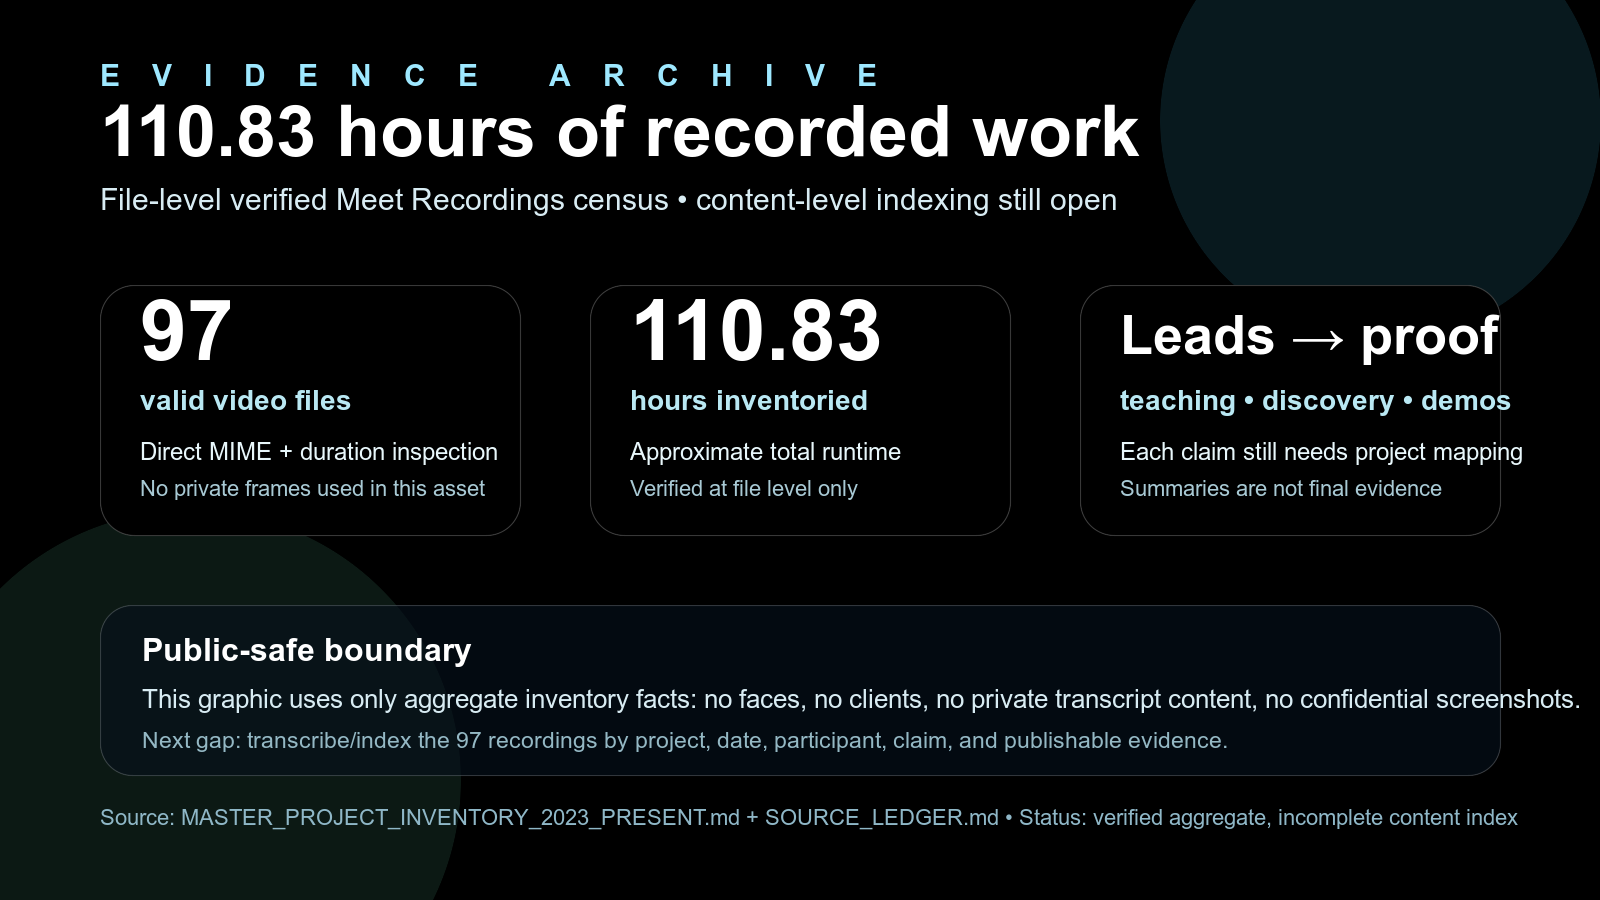
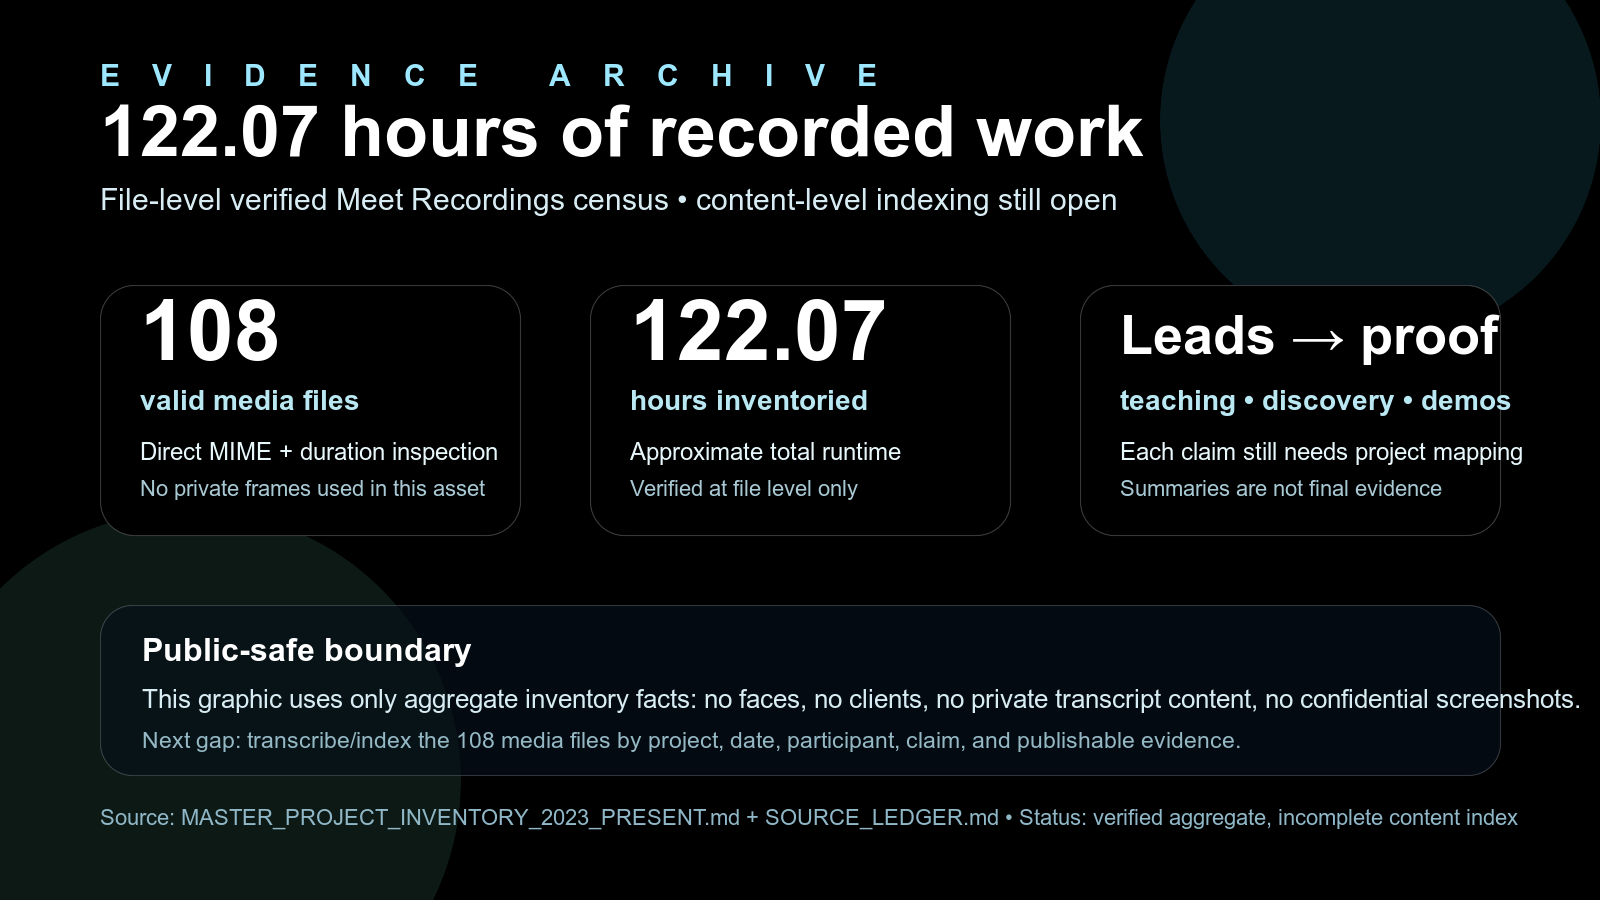
feat(portfolio): refresh recording archive evidence

diff --git a/portfolio.ts b/portfolio.ts
@@ -428,7 +428,7 @@ export const LINKEDIN_MEDIA_ASSETS: LinkedInMediaAsset[] = [
     post: 'Post 19',
     title: copy('Recorded work evidence archive', 'Archivo de trabajo grabado', 'Archive de travail enregistré', '录制工作证据档案'),
     image: '/portfolio/linkedin-post19-recorded-work-archive.png',
-    proof: copy('Aggregate only: 97 valid Meet Recording videos and approximately 110.83 hours inventoried. Content-level indexing is still incomplete.', 'Solo agregado: 97 vídeos válidos de Meet Recordings y aproximadamente 110,83 horas inventariadas. La indexación de contenido sigue incompleta.'),
+    proof: copy('Aggregate only: 108 valid Meet Recording media files and approximately 122.07 hours inventoried. Content-level indexing is still incomplete.', 'Solo agregado: 108 archivos multimedia válidos de Meet Recordings y aproximadamente 122,07 horas inventariadas. La indexación de contenido sigue incompleta.'),
   },
   {
     id: 'linkedin-post20',
@@ -461,7 +461,7 @@ export const EVIDENCE_GAPS: EvidenceGap[] = [
   {
     id: 'recordings',
     title: copy('Meet recording contents', 'Contenido de grabaciones Meet', 'Contenu des enregistrements Meet', 'Meet 录制内容'),
-    status: copy('97 valid videos and approximately 110.83 hours are verified at file level, but content-level project mapping is incomplete.', '97 vídeos válidos y unas 110,83 horas están verificados a nivel de archivo, pero falta mapear el contenido por proyecto.'),
+    status: copy('108 valid media files and approximately 122.07 hours are verified at file level, with 267 notes/transcript/chat sidecars and 3 timed-out media candidates; content-level project mapping is incomplete.', '108 archivos multimedia válidos y unas 122,07 horas están verificados a nivel de archivo, con 267 notas/transcripciones/chats auxiliares y 3 candidatos de media con timeout; falta mapear el contenido por proyecto.'),
     nextStep: copy('Transcribe and index recordings by project, participant and reusable public-safe clip.', 'Transcribir e indexar por proyecto, participante y clip reutilizable seguro para público.'),
   },
   {